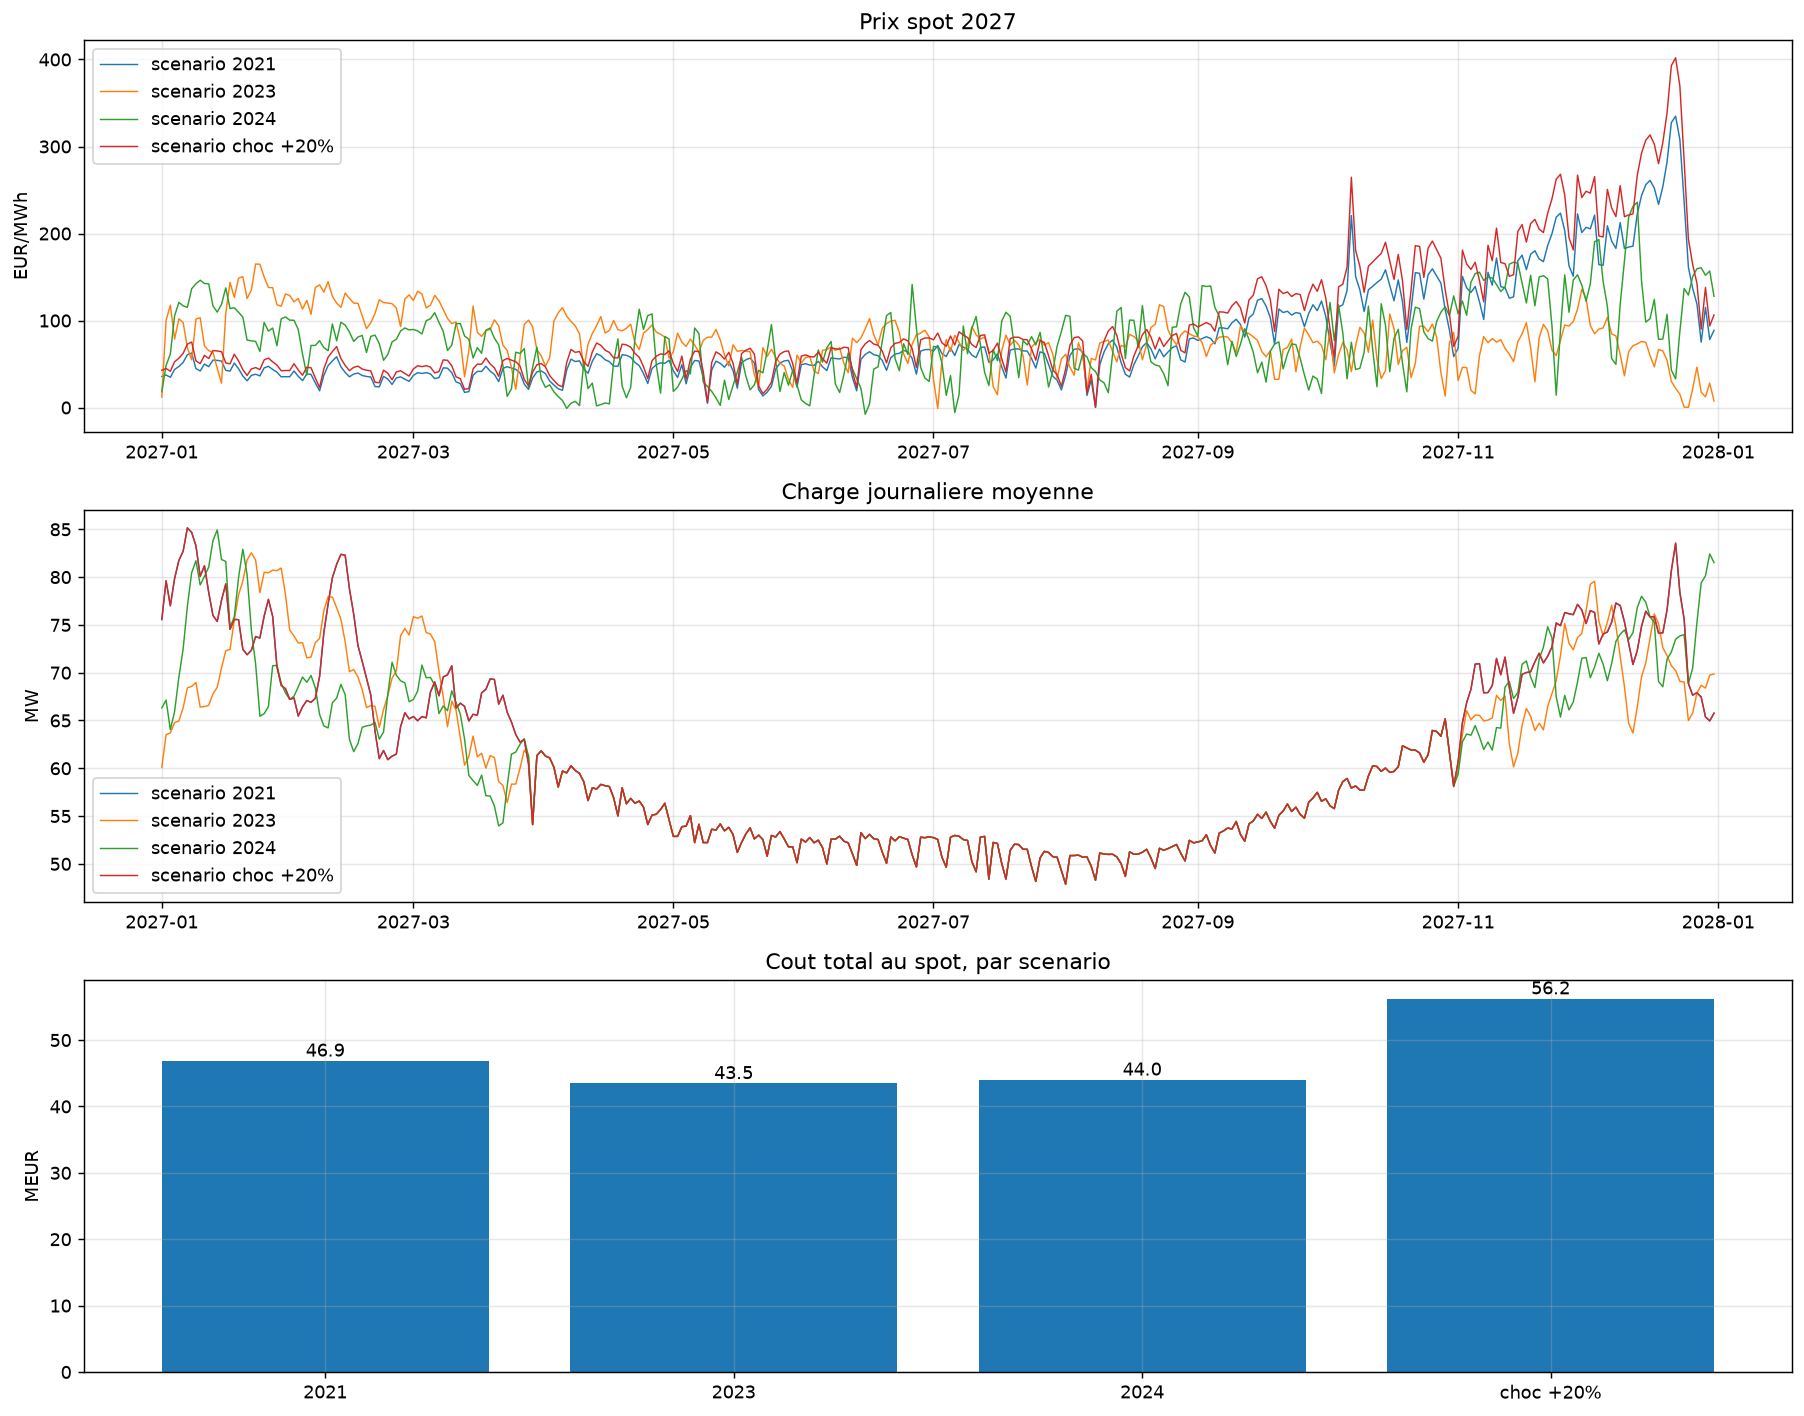
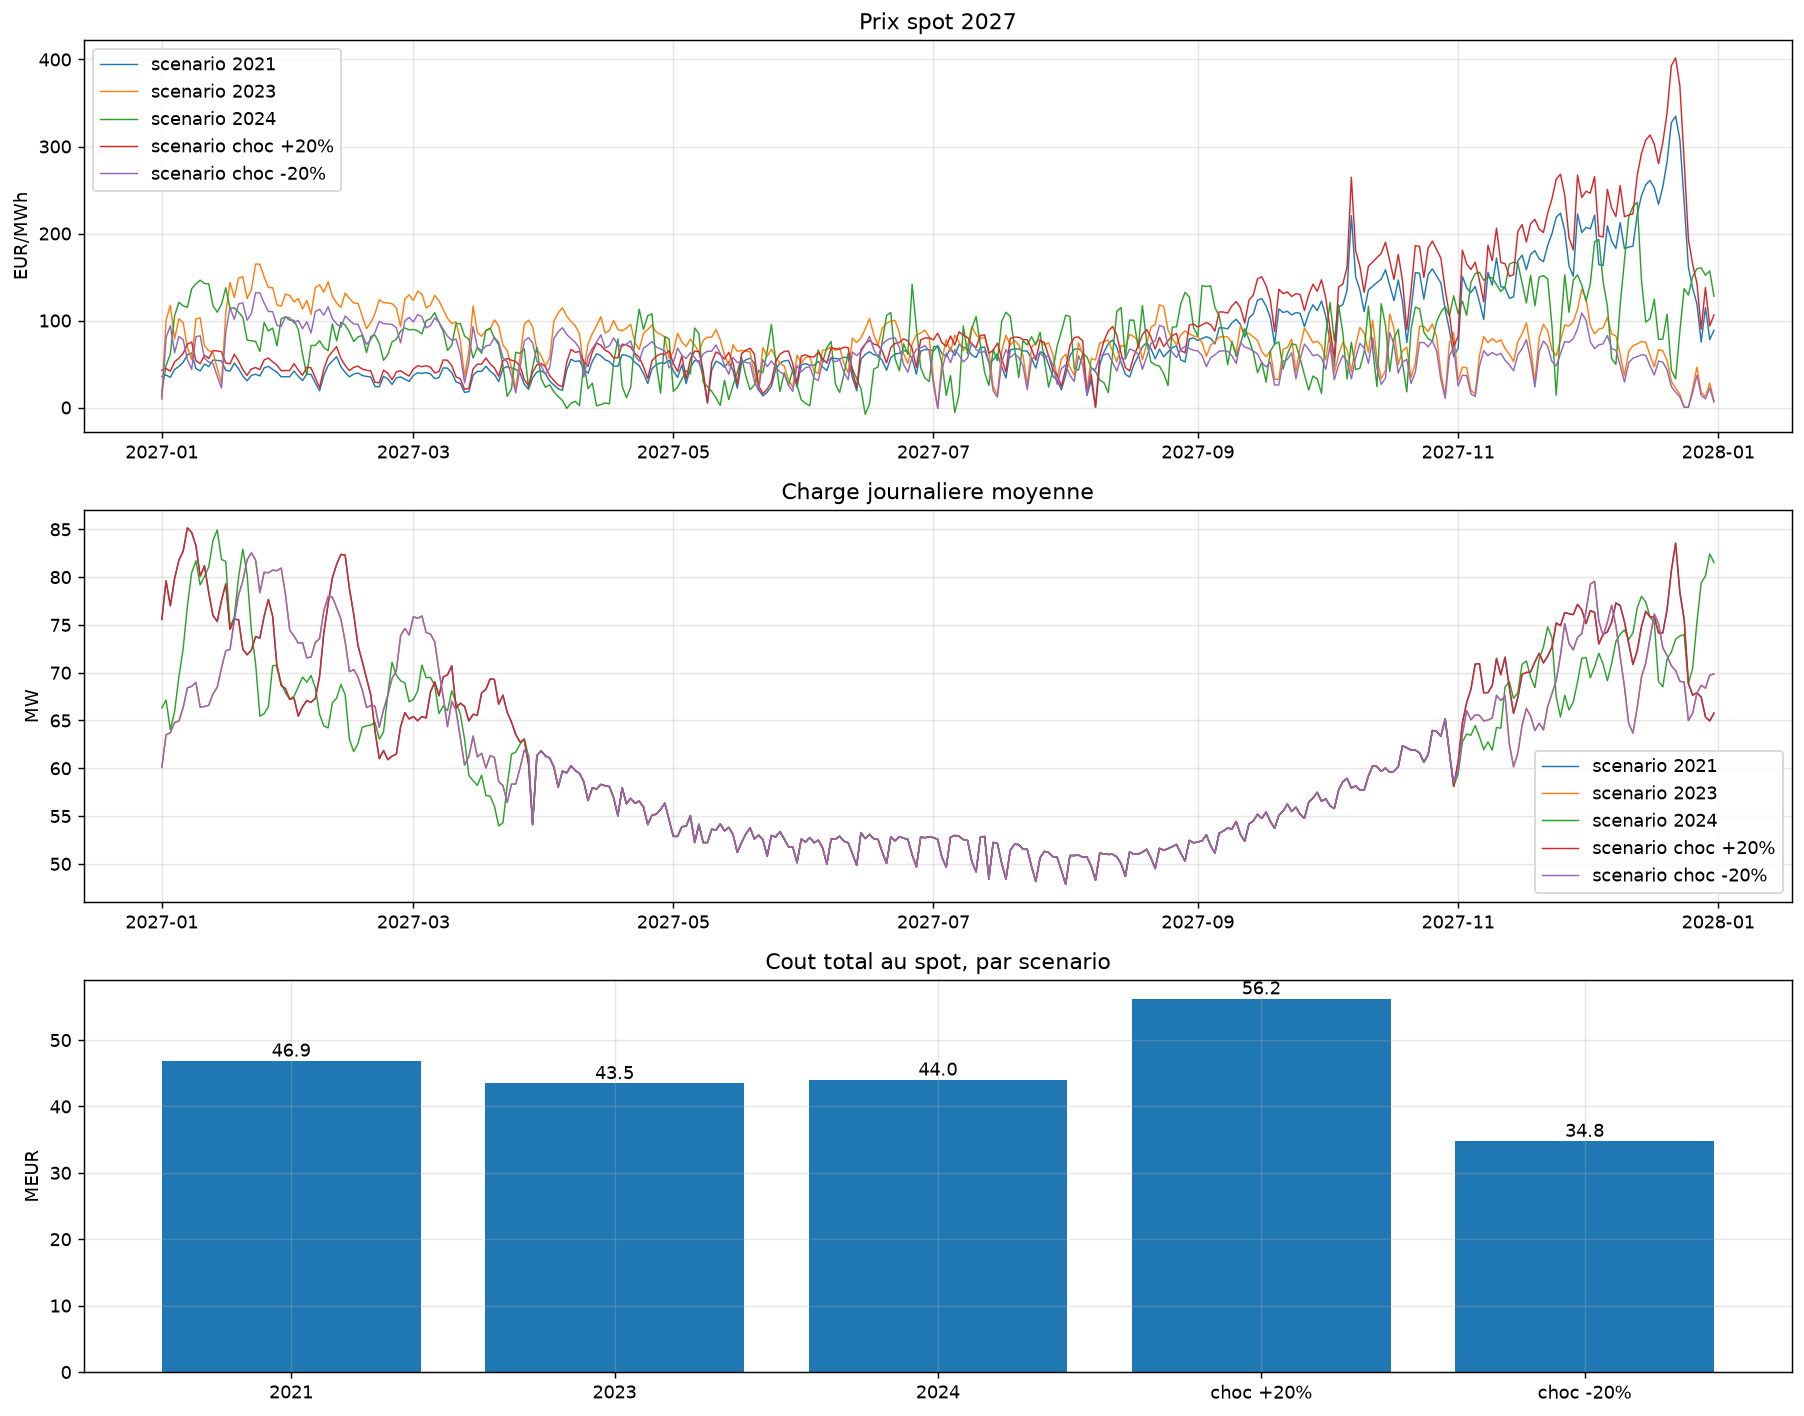
Le choc fondamental devient symetrique : 9 strategies x 5 scenarios
Il n'y avait qu'un choc de niveau, a la hausse. Le jeu en compte deux :
la hausse portee par l'annee la plus froide (2021), la baisse par la plus
douce (2023), 15 % de probabilite chacun, le reste reparti sur les trois
annees meteo. Un fondamental peut faire monter le prix comme le faire baisser ;
n'en garder qu'un faussait la lecture du risque.

Consequence que le code revele, et qui n'etait pas visible avant :

  - le prix observe au T2 (73,70) tombe DANS la fourchette anticipee, alors
    qu'il en sortait avec quatre scenarios ;
  - le choc a la baisse l'atteint avec un alpha de 0,46, donc dans [0 ; 1].
    La phrase "aucun alpha de [0 ; 1] n'atteint 73,70" etait ecrite en dur
    dans t2_decision.py : elle est maintenant calculee, et dit lequel y arrive ;
  - la revision bayesienne porte le choc baissier de 15 % a 25,5 %, la plus
    forte des cinq, pendant que le choc haussier tombe a 2,1 %.

Effets chiffres :
  esperance au T2   7,14 -> 7,39 EUR/MWh
  pire cas au T2    5,51 -> 5,51 (inchange)
  decision retenue  completer a 100 % - cal (inchangee)
  T3                strictement inchange (il n'utilise aucun scenario)

Sorties : les courbes de charge, le scenario 2021 et les deux fichiers du T3
sont identiques. position_ouverte_20270101.csv gagne deux colonnes, ses douze
colonnes communes sont inchangees.

Les rapports Word et PDF ne sont PAS mis a jour : ils decrivent encore le jeu
a quatre scenarios.
[…]

diff --git a/MarketGame/Version Light/outils/couverture.py b/MarketGame/Version Light/outils/couverture.py
@@ -35,8 +35,10 @@ FORME = "trimestres"       # "cal" | "trimestres" | "trimestres+peak"
 # Indispensable : sans lui, le Level vaut toujours forward x (1 - prime), donc le spot
 # est espere moins cher que le forward et le modele conclut mecaniquement "ne jamais se
 # couvrir". +20 % = un ecart-type, c'est la volatilite annuelle estimee par la CRE.
-CHOC_FONDAMENTAL = 0.20    # 0.0 pour desactiver le scenario de choc
-PROBA_CHOC = 0.15          # probabilite du choc (queue haute a 1 sigma)
+# Les chocs vont par paire : un fondamental peut faire monter le prix comme le faire
+# baisser. N'en garder qu'un seul fausserait la lecture du risque dans les deux sens.
+CHOC_FONDAMENTAL = 0.20    # 0.0 pour desactiver les deux chocs
+PROBA_CHOC = 0.15          # probabilite de CHAQUE choc (hausse et baisse)
 
 STRATEGIES = {             # (part achetee a T1, part planifiee pour T2) - le reste au SPOT
     "Notre strategie 70/20/10": (0.70, 0.20),
@@ -135,8 +137,13 @@ def pente_mutualisee(scenarios):
     return marche.pente_prix_volume(paquet)
 
 
+def nom_du_choc(signe):
+    """Le nom d\'un scenario de choc : +1 pour la hausse, -1 pour la baisse."""
+    return f"choc {signe * CHOC_FONDAMENTAL:+.0%}"
+
+
 def construire_jeu(base, annees, forward=None, bavard=True):
-    """Les scenarios meteo, la pente mutualisee, le scenario de choc et les probabilites."""
+    """Les scenarios meteo, la pente mutualisee, les deux chocs et les probabilites."""
     forward = marche.FORWARD_CAL27_T1 if forward is None else forward
     brut = {}
     for an in annees:
@@ -147,13 +154,21 @@ def construire_jeu(base, annees, forward=None, bavard=True):
 
     scenarios = {an: reajuster(s, b, forward) for an, s in brut.items()}
     if CHOC_FONDAMENTAL:
+        # Deux chocs de niveau, symetriques. La hausse est portee par l'annee la plus
+        # froide (le pire cumul prix x volume), la baisse par la plus douce. Le niveau
+        # de prix bouge, le volume ne bouge pas : un choc de fondamentaux (gaz, CO2,
+        # parc nucleaire) n'est pas un evenement meteo.
         froid = min(brut, key=lambda a: brut[a]["temperature_moyenne"])
-        nom = f"choc {CHOC_FONDAMENTAL:+.0%}"
-        scenarios[nom] = reajuster(brut[froid], b, forward * (1 + CHOC_FONDAMENTAL))
-        scenarios[nom]["multiplicateur_forward"] = 1 + CHOC_FONDAMENTAL
-        scenarios[nom]["origine"] = froid
-        reste = (1 - PROBA_CHOC) / len(brut)
-        probabilites = {an: reste for an in brut} | {nom: PROBA_CHOC}
+        doux = max(brut, key=lambda a: brut[a]["temperature_moyenne"])
+        for signe, origine in ((+1, froid), (-1, doux)):
+            multiplicateur = 1 + signe * CHOC_FONDAMENTAL
+            nom = nom_du_choc(signe)
+            scenarios[nom] = reajuster(brut[origine], b, forward * multiplicateur)
+            scenarios[nom]["multiplicateur_forward"] = multiplicateur
+            scenarios[nom]["origine"] = origine
+        reste = (1 - 2 * PROBA_CHOC) / len(brut)
+        probabilites = ({an: reste for an in brut}
+                        | {nom_du_choc(+1): PROBA_CHOC, nom_du_choc(-1): PROBA_CHOC})
     else:
         probabilites = {an: 1 / len(brut) for an in brut}
     return scenarios, brut, b, probabilites

diff --git a/MarketGame/Version Light/t2_decision.py b/MarketGame/Version Light/t2_decision.py
@@ -126,8 +126,20 @@ def main():
           f" ({marche.FORWARD_CAL27_T2 / marche.FORWARD_CAL27_T1 - 1:+.1%}), sigma CRE = {sigma:.2f}")
     print(f"  le prix observe est {'DANS' if dedans else 'HORS'} la fourchette anticipee"
           f" [{min(anticipes):.2f} ; {max(anticipes):.2f}]")
-    print(f"  alpha retenu {cv.ALPHA_T2:.2f} ; aucun alpha de [0 ; 1] n'atteint 73.70"
-          f" -> la baisse n'est pas d'origine meteo (gaz, CO2, nucleaire, demande).")
+    requis = {an: (marche.FORWARD_CAL27_T2 - marche.FORWARD_CAL27_T1)
+                  / (s["niveau"] - marche.FORWARD_CAL27_T1) for an, s in scen_t1.items()}
+    atteignables = {an: a for an, a in requis.items() if 0.0 <= a <= 1.0}
+    print(f"  alpha retenu {cv.ALPHA_T2:.2f} ; alpha requis pour atteindre"
+          f" {marche.FORWARD_CAL27_T2:.2f} :")
+    if atteignables:
+        print("     " + ", ".join(f"{an} -> {a:.2f}" for an, a in atteignables.items())
+              + "  (dans [0 ; 1], donc atteignable)")
+        print("     Sur les seules annees meteo, aucun alpha de [0 ; 1] n'y arrive : la")
+        print("     baisse ne s'explique que par un choc de fondamentaux (gaz, CO2,")
+        print("     nucleaire, demande), pas par la meteo.")
+    else:
+        print(f"     aucun scenario n'y arrive avec un alpha de [0 ; 1]"
+              f" -> la baisse n'est pas d'origine meteo.")
 
     # ------------------------------------------------- 4.2 probabilites revisees
     probas = probabilites_revisees(scen_t1, priors)

diff --git a/MarketGame/Version Light/t1_strategie.py b/MarketGame/Version Light/t1_strategie.py
@@ -60,9 +60,13 @@ def main():
           f" d'ou le test de sensibilite a b ci-dessous.")
 
     if cv.CHOC_FONDAMENTAL:
-        nom = f"choc {cv.CHOC_FONDAMENTAL:+.0%}"
-        print(f"  scenario de choc : meteo {scenarios[nom]['origine']} + niveau"
-              f" {cv.CHOC_FONDAMENTAL:+.0%} hors meteo, probabilite {cv.PROBA_CHOC:.0%}")
+        for signe, sens in ((+1, "hausse"), (-1, "baisse")):
+            nom = cv.nom_du_choc(signe)
+            print(f"  choc a la {sens} : meteo {scenarios[nom]['origine']} + niveau"
+                  f" {signe * cv.CHOC_FONDAMENTAL:+.0%} hors meteo,"
+                  f" probabilite {cv.PROBA_CHOC:.0%}")
+        print(f"  les deux chocs sont symetriques : sans celui a la baisse, le manque a"
+              f" gagner de la couverture reste invisible.")
 
     reference = next(iter(scenarios.values()))["courbe"]
     volumes_q = (reference["charge_normale_MW"]
